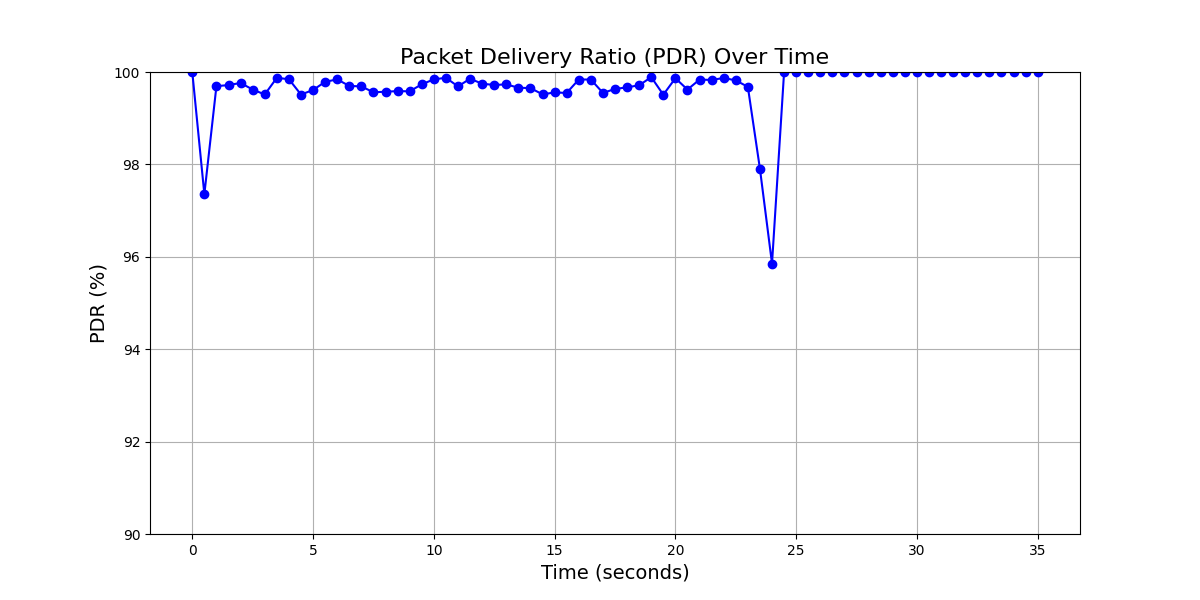
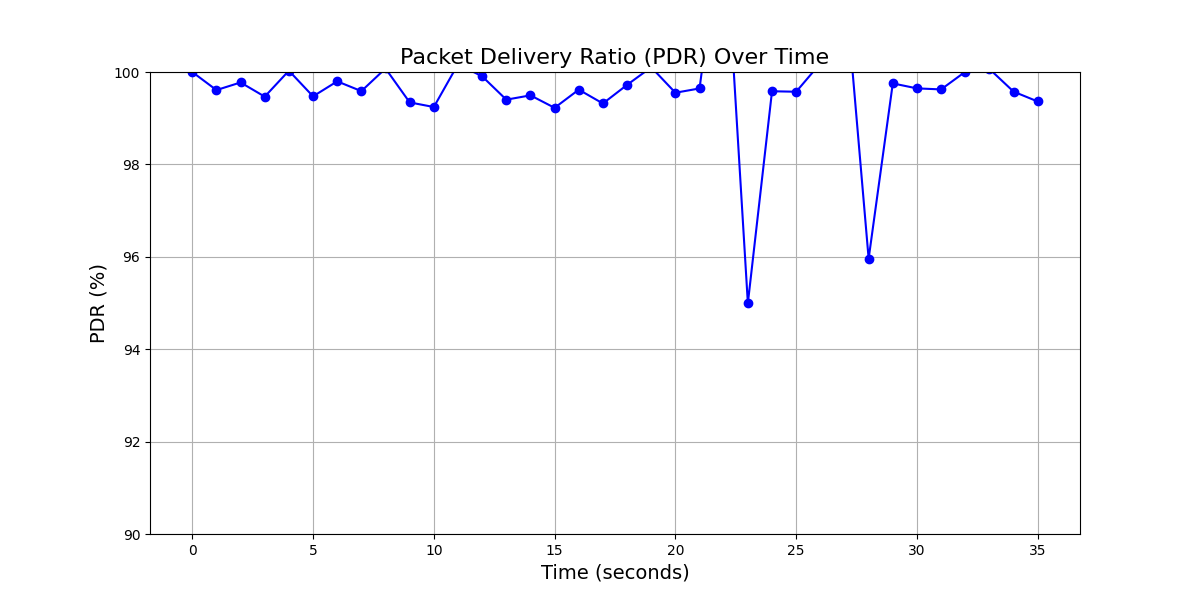
120 results

Changed region(s): [[0.1542, 0.12, 0.8942, 0.51], [0.7092, 0.18, 0.74, 0.45]]

diff --git a/dom_sim2.py b/dom_sim2.py
@@ -32,7 +32,7 @@ def run_simulation(file_path, start_node, destination_node, duration, num_attack
                 nodes_to_attack = test_nodes[t // attacks_per_interval]
             else:
                 possible_nodes = list(set(network_graph.nodes) - {start_node, destination_node})
-                nodes_to_attack = random.sample(possible_nodes, k=random.randint(5, 10))
+                nodes_to_attack = random.sample(possible_nodes, k=random.randint(5, 15))
             
             initial_pdr = calculate_packet_delivery_ratio(network_graph, [initial_path])
             
@@ -68,8 +68,9 @@ def run_simulation(file_path, start_node, destination_node, duration, num_attack
         print(path)
 
     # Plot PDR over time and number of attacks
-    plot_pdr_over_time(pdr_values_time, 60)
-    plot_pdr_vs_attacks(pdr_values_attack, 60)
+    nodes = 120
+    plot_pdr_over_time(pdr_values_time, nodes)
+    plot_pdr_vs_attacks(pdr_values_attack, nodes)
 
     save_results()
 
@@ -131,10 +132,10 @@ def save_results():
         os.makedirs('results')
 
 if __name__ == "__main__":
-    file_path = 'Test_data/MKU_files/internetworks/adjacency_60_0_7_1_updated.txt'
+    file_path = 'Test_data/MKU_files/internetworks/adjacency_120_0_7_1_updated.txt'
     start_node = 0  
-    destination_node = 20
-    duration = 25
-    num_attacks = 25
-    test_nodes = [[11, 39],]
-    run_simulation(file_path, start_node, destination_node, duration, num_attacks, test_nodes=test_nodes)
+    destination_node = 65
+    duration = 35
+    num_attacks = 35
+    #test_nodes = [[11, 39],]
+    run_simulation(file_path, start_node, destination_node, duration, num_attacks)

diff --git a/graph_helpers.py b/graph_helpers.py
@@ -244,7 +244,7 @@ def read_adjacency_matrices(file_path):
     return graph
 
 
-def visualize_domains(graph, final_path=None, num_nodes=60):
+def visualize_domains(graph, final_path=None, num_nodes=120):
     """
     Visualizes the domain graph with nodes and edges.
     Highlights the final path if provided.
